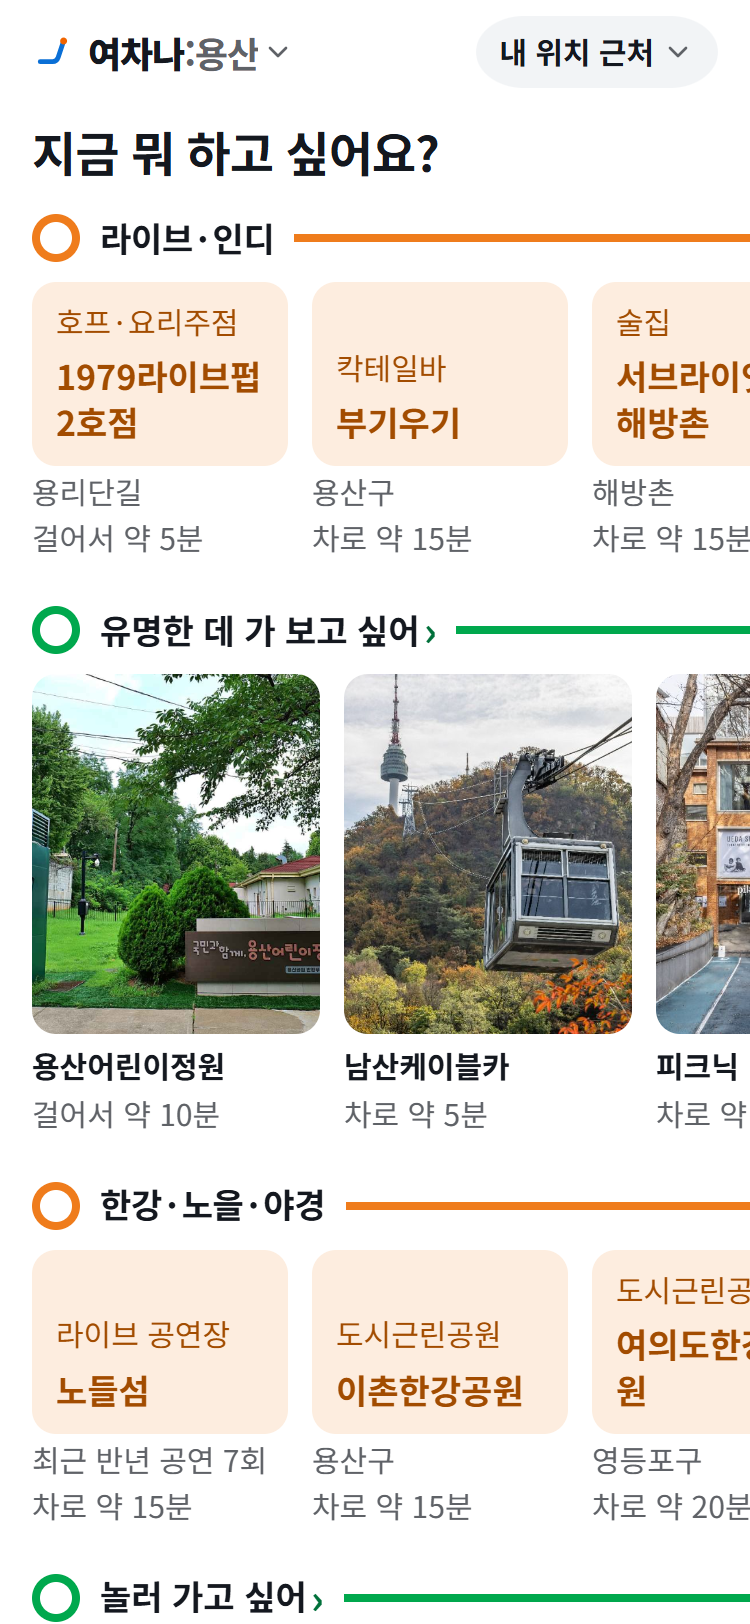
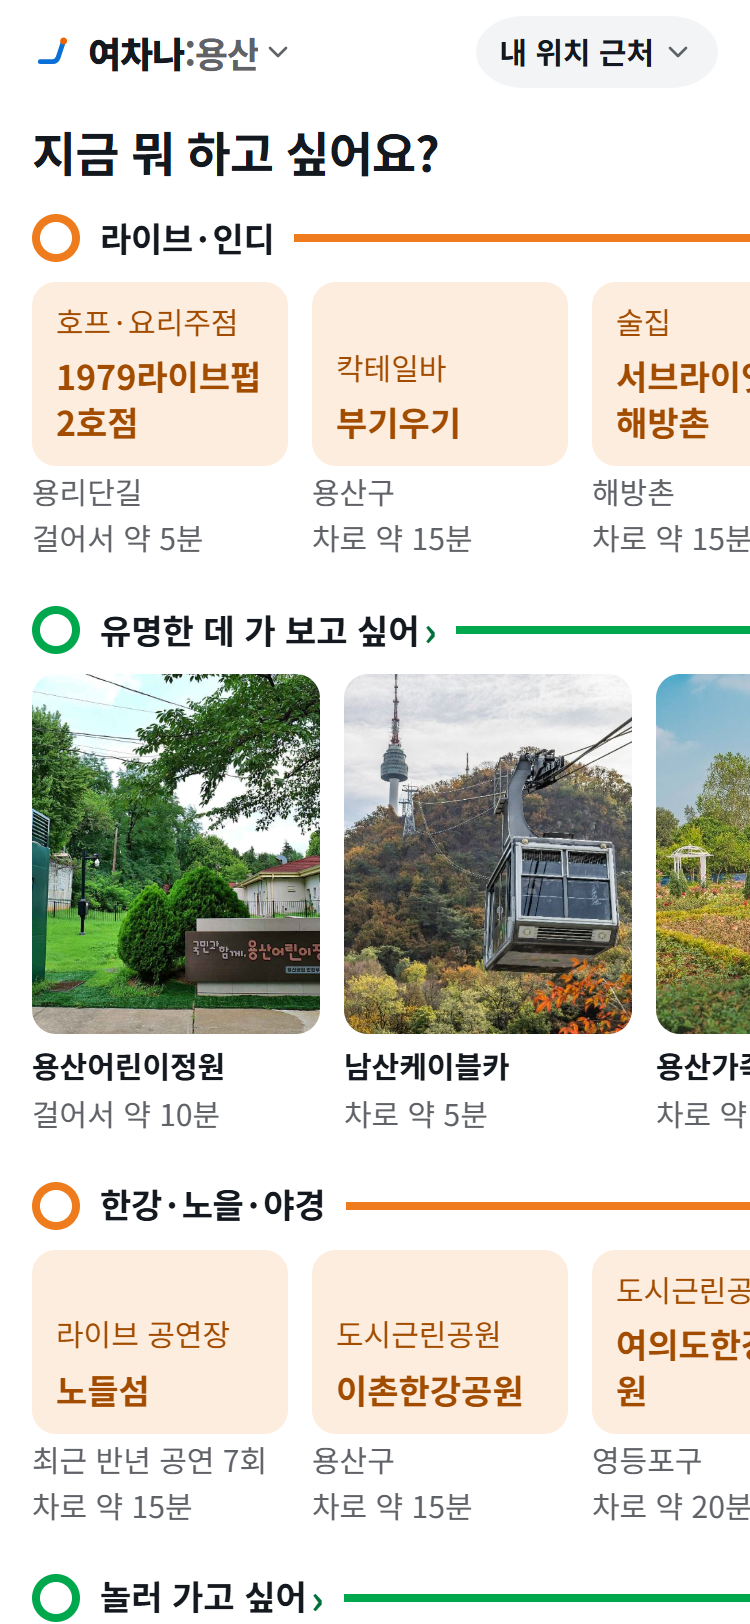
fix(seoul): 재검토 R1 줄임·r1·r2 - 궁과·갤러리 이름, 밤에 여는 곳은 관람형 아님, 빈 기분 줄도 머리 남김 (ADR-0117 Amendment 5)
- 관람형 이름 규칙: 「궁과」, 리뷰가 지목한 갤러리(학고재·송은·바라캇·화이트큐브·스페이스K·피크닉·푸투라); 궁은 9시부터
- 관람형 아님: 걷기·쉬기, 아쿠아리움, 아트센터·극장, ○○길·거리·공원·역
- 빈 기분 줄: 머리 + 「지금 닿는 곳에 없어요」(4개 언어)
- R1 완전 해소는 S1.5(서울 장소 영업 유형 분류), 배포 전부터 있던 결함으로 기록
- 테스트: 22시 용산·삼청 지금 여기서·기분 선반에 지목된 이름 0, 아쿠아리움 19시 남음; 리뷰 파일 포함

Changed region(s): [[0.8587, 0.4002, 1.0, 0.6773]]

diff --git a/apps/web/tests/browse.test.ts b/apps/web/tests/browse.test.ts
@@ -6,7 +6,7 @@ import { readFileSync } from 'node:fs';
 import { resolve } from 'node:path';
 import { FULL, HOME_ROWS, HOOD_MIN, MOOD_SHELVES, ORDER, PER_SHELF, browseCard, buildShelves, homeOrder, homeShelves, homeShown, imageUrl, inHood, linkUrl, RESIZE, todayTimes, type ShelfKey } from '../src/browse';
 import { normalizeSpots } from '../src/data';
-import { moodShelf } from '../src/home';
+import { moodShelf, nowSpot } from '../src/home';
 import { initialState, viewingShut } from '../src/state';
 import type { Spot } from '../src/pick';
 import { openNow, type Now } from '../src/culture';
@@ -229,14 +229,15 @@ describe('서울 홈의 선반 (ADR-0117)', () => {
     expect(seen.filter((sh) => size(sh) >= FULL).length).toBeGreaterThanOrEqual(4);
     for (const m of MOOD_SHELVES) expect(seen.map((sh) => sh.key)).toContain(m);
     for (const sh of list) {
-      expect(size(sh)).toBeGreaterThan(0);
+      // a mood's shelf may be empty (its heading stays, Amendment 5); the others are not there empty
+      if (!('spots' in sh)) expect(size(sh)).toBeGreaterThan(0);
       expect(size(sh)).toBeLessThanOrEqual(PER_SHELF);
     }
     // nothing shut now: the day's list and the curated places by their hours; a mood's places by 서울's usual viewing hours
     // (Amendment 4: no 박물관·미술관 at 22:00)
     for (const sh of list) if ('cards' in sh) for (const c of sh.cards) expect(browseCard(c.item, at(h), p)).not.toBeNull();
     for (const sh of list) if ('spots' in sh) for (const x of sh.spots) expect(viewingShut(x, h * 60)).toBe(false);
-    if (h === 22) for (const sh of list) if ('spots' in sh) for (const x of sh.spots) expect(x.name).not.toMatch(/박물관|미술관/);
+    if (h === 22) for (const sh of list) if ('spots' in sh) for (const x of sh.spots) expect(x.name).not.toMatch(/(박물관|미술관)$/);
     // each place once: by name, and a curated place that is a mood's place too (the same 카카오 id) once
     const names = list.flatMap((sh) => ('spots' in sh ? sh.spots.map((x) => x.name) : sh.cards.map((c) => c.item.title)));
     expect(new Set(names).size).toBe(names.length);
@@ -277,6 +278,15 @@ describe('서울 홈의 선반 (ADR-0117)', () => {
     expect(viewingShut(sp('경복궁'), 22 * 60)).toBe(true);
     expect(viewingShut(sp('궁중족발', 'food'), 22 * 60)).toBe(false);
     expect(viewingShut(sp('남산 야외식물원', 'walk'), 22 * 60)).toBe(false);
+    // Amendment 5: 「궁과」, the galleries the review named, a palace from 9:00; not 아쿠아리움, a stage, a 돌담길, 화랑대
+    expect(viewingShut(sp('창덕궁과 후원'), 22 * 60)).toBe(true);
+    expect(viewingShut(sp('창덕궁과 후원'), 9 * 60 + 30)).toBe(false);
+    expect(viewingShut(sp('리움미술관'), 9 * 60 + 30)).toBe(true);
+    for (const n of ['푸투라서울', '학고재', '바라캇 서울', '송은', '화이트큐브 서울', '스페이스K 서울', '피크닉']) expect(viewingShut(sp(n), 22 * 60)).toBe(true);
+    for (const n of ['코엑스 아쿠아리움', '롯데월드 아쿠아리움']) expect(viewingShut(sp(n), 19 * 60)).toBe(false);
+    for (const n of ['LG아트센터 서울', '창덕궁 소극장', '화랑대역']) expect(viewingShut(sp(n), 20 * 60)).toBe(false);
+    expect(viewingShut(sp('덕수궁 돌담길', 'walk'), 22 * 60)).toBe(false);
+    expect(viewingShut(sp('화랑대 철도공원', 'rest'), 22 * 60)).toBe(false);
   });
 
   it("the order table: 먹기 second at 밥때 (else after the hour's), 유명한 데 third, 놀러 fifth, 쉬기·걷기 last", () => {
@@ -290,16 +300,32 @@ describe('서울 홈의 선반 (ADR-0117)', () => {
     expect(homeOrder([], 12 * 60)).toEqual(['food', 'famous', 'new', 'rest', 'walk']);
   });
 
-  it('a place a shelf before took is passed over (id, name, 카카오 id); an empty mood shelf is not there; a short one goes to the back', () => {
+  // 재검토 R1·r2 (Amendment 5): the places the review named at 22:00 — on 「지금 여기서」 and the mood shelves, none
+  const NAMED = /푸투라서울|학고재|창덕궁과 후원|바라캇 서울|^송은$|화이트큐브 서울|스페이스K 서울|^피크닉$|국립중앙박물관$|리움미술관$/;
+  const 삼청 = { lat: 37.5847, lng: 126.982 };
+  it.each([
+    ['용산', HERE.용산, false],
+    ['용산', HERE.용산, true],
+    ['삼청', 삼청, false],
+    ['삼청', 삼청, true],
+  ] as const)('22:00 %s (case %#): none the review named, on 지금 여기서 or a mood shelf', (_, p, indoor) => {
+    const s = initialState({ dest: 'seoul', basis: 'gps', today: DAY, region: null, stay: null, saved: [], hintSeen: true, offline: false, clock: 22 * 60, indoor });
+    const origin = { key: 'gps', point: p, isPoint: true, from: '' };
+    const now = nowSpot(s, seoul, origin);
+    expect(now?.name ?? '').not.toMatch(NAMED);
+    for (const m of MOOD_SHELVES) for (const x of moodShelf(s, seoul, origin, m).slice(0, PER_SHELF * 2)) expect(x.name).not.toMatch(NAMED);
+  });
+
+  it('a place a shelf before took is passed over (id, name, 카카오 id); an empty mood shelf keeps its place; a short one goes to the back', () => {
     const sp = (id: string, name: string, kakao: string | null = null) => ({ id, name, kakaoPlaceId: kakao }) as Spot;
     const cards = Array.from({ length: 6 }, (_, i) => ({ item: place({ id: `kk-${i}`, g: 'G2', word: '전통시장', title: `시장${i}`, link: `https://place.map.kakao.com/${100 + i}` }), why: '', trip: null }));
     const out = homeShelves([{ key: 'g2', cards }], { food: [sp('a', '시장0'), sp('b', '딴집', '101'), sp('c', '국밥'), sp('e', '냉면')], famous: [sp('c', '국밥'), sp('d', '궁')], rest: [sp('a', '시장0')] }, 15 * 60, SUNSET);
-    // 15:00: g2, 유명한 데, 먹기 (after the hour's), 쉬기 empty
-    expect(out.map((sh) => sh.key)).toEqual(['g2', 'famous', 'food']);
-    expect(out.slice(1).map((sh) => ('spots' in sh ? sh.spots.map((x) => x.id) : []))).toEqual([['c', 'd'], ['e']]);
+    // 15:00: g2, 유명한 데, 놀러, 먹기 (after the hour's), 쉬기·걷기 — the moods with no place in reach stay, empty
+    expect(out.map((sh) => sh.key)).toEqual(['g2', 'famous', 'new', 'food', 'rest', 'walk']);
+    expect(out.slice(1).map((sh) => ('spots' in sh ? sh.spots.map((x) => x.id) : []))).toEqual([['c', 'd'], [], ['e'], [], []]);
     // a full mood shelf before a short curated one
     const many = Array.from({ length: 7 }, (_, i) => sp(`f${i}`, `곳${i}`));
-    expect(homeShelves([{ key: 'g2', cards: cards.slice(0, 2) }], { famous: many }, 15 * 60, SUNSET).map((sh) => sh.key)).toEqual(['famous', 'g2']);
+    expect(homeShelves([{ key: 'g2', cards: cards.slice(0, 2) }], { famous: many }, 15 * 60, SUNSET).map((sh) => sh.key).slice(0, 2)).toEqual(['famous', 'g2']);
   });
 });
 

diff --git a/apps/web/src/state.ts b/apps/web/src/state.ts
@@ -449,19 +449,32 @@ export const OPEN_STEP = 30;
 export const openPhase = (s: State, clock: number | null): number | null =>
   clock === null || s.when !== 'now' || (s.dest !== 'jeju' && s.dest !== 'seoul') ? null : Math.floor(clock / OPEN_STEP);
 
-/** 서울 (ADR-0117 Amendment 4): no place has its hours, and 지금 갈 수 없는 곳은 추천하지 않는다 — a place one goes in to look
- * round (박물관·미술관·궁 …, by its name: the data has no kind) keeps the usual 10:00–18:00 and is left out from half an hour
- * before it closes. Both edges fall on OPEN_STEP, so the home is drawn again at them. */
-const VIEWING = /박물관|미술관|기념관|전시관|전시실|역사관|과학관|문학관|기록관|뮤지엄|갤러리|화랑|아트센터|아트스페이스|사랑채|종묘|퐁피두|리움|궁(?:$|[\s(])/;
+/** 서울 (ADR-0117 Amendment 4·5): no place has its hours, and 지금 갈 수 없는 곳은 추천하지 않는다 — a place one goes in to look
+ * round (박물관·미술관·갤러리·궁 …, by its name: the data has no kind) keeps the usual hours, a palace 9:00–18:00 and the rest
+ * 10:00–18:00, and is left out from half an hour before it closes. A name can not catch them all: the kinds themselves are
+ * S1.5's (Amendment 5). Not one of them: a 걷기·쉬기 place (a 돌담길 is walked at night), 아쿠아리움, a stage (아트센터,
+ * 극장), a street, a park or a station. The edges fall on OPEN_STEP, so the home is drawn again at them. */
+const PALACE = /궁(?:과|$|[\s(])|종묘/;
+const VIEWING = /박물관|미술관|기념관|전시관|전시실|역사관|과학관|문학관|기록관|뮤지엄|갤러리|화랑(?!대)|아트스페이스|스페이스K|사랑채|퐁피두|리움|학고재|바라캇|화이트큐브|푸투라|^송은$|^피크닉$/;
+const NOT_VIEWING = /아쿠아리움|아트센터|극장|길$|거리$|공원|역$/;
 export const VIEW_HOURS: readonly [number, number] = [10 * 60, 18 * 60];
-export const viewingShut = (x: Spot, minute: number): boolean => x.mood !== 'food' && VIEWING.test(x.name) && (minute < VIEW_HOURS[0] || minute >= VIEW_HOURS[1] - 30);
-const viewCache = new WeakMap<Spot[], Spot[]>();
+const PALACE_OPEN = 9 * 60;
+export function viewingShut(x: Spot, minute: number): boolean {
+  if (x.mood === 'food' || x.mood === 'walk' || x.mood === 'rest' || NOT_VIEWING.test(x.name)) return false;
+  const open = PALACE.test(x.name) ? PALACE_OPEN : VIEWING.test(x.name) ? VIEW_HOURS[0] : null;
+  return open !== null && (minute < open || minute >= VIEW_HOURS[1] - 30);
+}
+const viewCache = new WeakMap<Spot[], { at: string; list: Spot[] }>();
 /** `spots` without what is shut now by viewingShut: 서울, 지금, the time read; as it is elsewhere and in the open hours. */
 export function openSpots(s: State, spots: Spot[]): Spot[] {
   const m = s.clock;
   if (s.dest !== 'seoul' || s.when !== 'now' || m === null || (m >= VIEW_HOURS[0] && m < VIEW_HOURS[1] - 30)) return spots;
-  let list = viewCache.get(spots);
-  if (!list) viewCache.set(spots, (list = spots.filter((x) => !viewingShut(x, m))));
+  // the same list before 9:00 and from 17:30; between 9 and 10 the palaces are open
+  const at = m >= PALACE_OPEN && m < VIEW_HOURS[0] ? 'palace' : 'shut';
+  const hit = viewCache.get(spots);
+  if (hit?.at === at) return hit.list;
+  const list = spots.filter((x) => !viewingShut(x, m));
+  viewCache.set(spots, { at, list });
   return list;
 }
 

diff --git a/apps/web/src/browse.ts b/apps/web/src/browse.ts
@@ -132,7 +132,8 @@ export type HomeShelf = Shelf | { key: MoodShelf; spots: Spot[] };
 const kakaoOf = (link: string) => /place\.map\.kakao\.com\/(\d+)/.exec(link)?.[1];
 /** The home's shelves: `shelves` (buildShelves) and each mood's places (home.ts moodShelf, nearest first) in homeOrder, each
  * place once — a place another shelf before it took (by id, 카카오 id or name: a curated place may be a mood's too) is passed
- * over — at most PER_SHELF a shelf, an empty one not there, then those under FULL at the back (ADR-0115 Amendment 3). */
+ * over — at most PER_SHELF a shelf, then those under FULL at the back (ADR-0115 Amendment 3). A mood's shelf is there with
+ * no place in it too (ADR-0117 Amendment 5): its heading is the way to that mood. */
 export function homeShelves(all: readonly Shelf[], moods: Partial<Record<MoodShelf, readonly Spot[]>>, minute: number, sunset: number, here: Spot | null = null): HomeShelf[] {
   const rank = ORDER[bandOf(minute, sunset)];
   // 지금 여기서's place (`here`) is on the home already: not on a shelf again
@@ -154,7 +155,8 @@ export function homeShelves(all: readonly Shelf[], moods: Partial<Record<MoodShe
       spots.push(x);
       for (const k of [x.id, x.name, x.kakaoPlaceId]) if (k) taken.add(k);
     }
-    if (spots.length) out.push({ key: key as MoodShelf, spots });
+    // a mood's shelf stays with no place in it (its heading is the mood button, Amendment 5); the others only with cards
+    out.push({ key: key as MoodShelf, spots });
   }
   const size = (s: HomeShelf) => ('spots' in s ? s.spots : s.cards).length;
   return out.sort((a, b) => Number(size(a) < FULL) - Number(size(b) < FULL));

diff --git a/apps/web/src/browse-view.ts b/apps/web/src/browse-view.ts
@@ -32,6 +32,8 @@ export const BROWSE_COPY = {
   inHood: '지금 이 동네에서',
   /** 서울 홈 (ADR-0117 Amendment 3): the shelves past the first HOME_SHELVES */
   moreShelves: '선반 더 보기',
+  /** a mood's shelf with no place in reach now (Amendment 5): its heading still goes to the results */
+  noneNear: '지금 닿는 곳에 없어요',
   none: '지금 둘러볼 것이 없어요.',
   /** 오늘 시간 on the card sheet: 「오늘 11:00~18:00」 */
   today: (times: string) => `오늘 ${times}`,
@@ -162,6 +164,7 @@ export function homeShelvesView(doc: Document, shelves: readonly HomeRow[], labe
       row.append(...(sh as Shelf).cards.map((c) => cardLi(doc, c, later)));
     }
     sec.append(row);
+    if (!sh.cards.length) sec.append(el(doc, 'p', { class: 'note shelf-none' }, BROWSE_COPY.noneNear));
     if (!shown[i] && !allShelves) sec.hidden = true;
     box.append(sec);
   }

diff --git a/apps/web/src/browse.css b/apps/web/src/browse.css
@@ -115,6 +115,9 @@
 .shelves .btile .bk { overflow: hidden; white-space: nowrap; text-overflow: ellipsis; }
 .shelves .btile .bt { -webkit-line-clamp: 2; }
 .shelves-more { margin-top: 20px; }
+/* a mood's shelf with nothing in reach: the heading and one line (Amendment 5) */
+.shelf-row:empty { display: none; }
+.shelf-none { margin: 0; color: var(--muted); }
 /* the lines under a card close-set, so a photo shelf starts on the first screen at 375 (Amendment 3) */
 .shelves .bcard .meta { margin-top: 2px; line-height: 1.4; }
 .shelves .bcard .nm { margin-top: 6px; }

diff --git a/apps/web/tests/culture-app.test.ts b/apps/web/tests/culture-app.test.ts
@@ -111,7 +111,7 @@ describe.runIf(NATION)('서울 홈의 선반 (switch on)', () => {
     await wait();
     expect(shelves()).toBe(block);
     for (const r of shelfRows()) {
-      expect(r.querySelectorAll('.bcard').length).toBeGreaterThan(0);
+      if (!MOODS.includes(r.dataset.shelf!)) expect(r.querySelectorAll('.bcard').length).toBeGreaterThan(0);
       expect(r.querySelectorAll('.bcard').length).toBeLessThanOrEqual(12);
     }
     // the five moods' headings are their buttons, in the mood buttons' words

diff --git a/apps/web/src/i18n/ja.ts b/apps/web/src/i18n/ja.ts
@@ -255,6 +255,7 @@ export const JA: Lang = {
       fromKakao: '場所の情報：カカオマップ',
       inHood: '今この街で',
       moreShelves: 'ほかの列も見る',
+      noneNear: '今行ける範囲にはありません',
       none: 'いま見て回れるものがありません。',
       today: (times) => `今日 ${times}`,
       more: '詳しく（予約・案内）',

diff --git a/apps/web/src/i18n/zh-Hans.ts b/apps/web/src/i18n/zh-Hans.ts
@@ -250,6 +250,7 @@ export const ZH: Lang = {
       fromKakao: '地点信息：Kakao地图',
       inHood: '现在在这个街区',
       moreShelves: '查看更多',
+      noneNear: '现在附近没有可去的地方',
       none: '现在没有可逛的活动。',
       today: (times) => `今天 ${times}`,
       more: '详情（订票·介绍）',

diff --git a/apps/web/src/i18n/en.ts b/apps/web/src/i18n/en.ts
@@ -257,6 +257,7 @@ export const EN: Lang = {
       fromKakao: 'Place info: Kakao Map',
       inHood: 'In this neighbourhood now',
       moreShelves: 'More rows',
+      noneNear: 'Nothing within reach right now',
       none: 'Nothing to browse right now.',
       today: (times) => `Today ${times}`,
       more: 'Details (tickets · info)',

diff --git a/apps/web/review/browse/predeploy-review-shelves.md b/apps/web/review/browse/predeploy-review-shelves.md
@@ -1,0 +1,142 @@
+# 배포 전 독립 리뷰 — 서울 홈 선반 (61e7dd5a, f066f1b1)
+
+대상: `git diff 4cbb3c6b..f066f1b1`. 기준: `specs/seoul-home-shelves.md`, ADR-0117(Amendment 1~3). 리뷰어: Claude 독립 리뷰(소스 수정 없음).
+
+결론: **MAJOR 3, MINOR 4, NIT 5.** ADR-0117 성공 기준 「독립 리뷰 MAJOR 0」을 아직 못 채운다.
+
+## 확인한 것 (실행 결과)
+
+- `npx tsc --noEmit`: exit 0.
+- `npx vitest run`: 83 files / 1730 passed, 8 files skipped, exit 0.
+- `npx vitest run --mode nation`: 91 files / 1834 passed, 1 skipped, exit 0.
+- 진입 예산: `vite build --mode nation --outDir <scratch>`(저장소 dist는 건드리지 않음). `index.html`이 부르는 진입 JS+CSS gzip은 **60,397 B**(index JS 54,245 + CSS 6,152)로 70,000 B 안이다. 선반 코드는 문화 청크(culture-view 22.05 kB gzip)에 들어갔다.
+- 스크래치 탐침(vitest, 저장소 밖 파일): 11-04 목록으로 용산·노원·망원·역삼·경복궁·성수·잠실 × 10·14·19·22시의 `homeShelves` 결과를 찍었다. 아래 수치는 모두 이 탐침에서 나왔다.
+- Chrome(playwright-core)에서 「문서에 붙기 전 요소에 `scrollTo`」를 재현했다. 결과: `scrollLeft` 500 → 새 요소 0.
+
+## MAJOR
+
+### M1. 쉬기·걷기 머리(와 밥때 밖의 먹기)가 「선반 더 보기」 뒤로 숨는다. 기분 버튼을 대신할 입구가 첫 화면에서 사라진다
+- 위치: `src/browse.ts:128`(`out.push('rest', 'walk')`), `src/browse-view.ts:161`(`i >= HOME_SHELVES`), `src/render.ts:1399`(`moodList.hidden = !!shelves`).
+- 실패 시나리오: 서울 홈에서는 선반이 12~14줄이다(탐침 28가지 경우 모두). 순서표가 쉬기·걷기를 끝에 두므로 두 줄은 늘 9번째 이후로 밀려 `hidden`이 된다. 14시 용산의 앞 8줄은 hood, g4, famous, g5, new, g7, g1, today이고, food·rest·walk는 숨는다(스크린샷 `home-375-light-end.png`도 같다). 기분 버튼 목록 `ul.moods`도 숨겨져 있어서, 「푹 쉬고 싶어」·「좀 걷고 싶어」는 「선반 더 보기」를 누르기 전에는 홈 어디에도 없다. ADR-0117 Decision 3은 「선반 머리가 기분 버튼과 같은 일을 하므로 목록을 따로 두지 않는다」고 하는데, Amendment 3의 8줄 제한이 이 전제를 깼다. ADR-0117 6 판정의 「선반 머리 누름」도 숨은 두 머리 때문에 낮게 나온다.
+- 고칠 방향(하나를 고른다): (a) 기분 선반 다섯 줄은 8줄 제한에서 빼고 늘 그린다. 남는 자리만 즐길 거리·행사가 채운다. (b) 앞 8줄 안에 기분 머리 다섯을 반드시 넣고 즐길 거리 줄을 뒤로 민다. (c) 선반이 숨긴 기분만 작은 버튼 줄로 아무거나 위에 남긴다. 고른 뒤 ADR-0117 Amendment에 적고, 테스트에 「앞 8줄 안에 MOOD_SHELVES 다섯이 모두 있다」를 넣는다.
+
+### M2. 다시 그리면 선반의 가로 스크롤이 늘 처음으로 돌아간다. 5분 타이머와 사진 실패마다 일어난다
+- 위치: `src/render.ts:1393-1396`(새 블록이 문서에 붙기 전에 `scrollTo` → `old.remove()` → `els.lede.after(shelves)`), `src/app.ts:478·480`(5분마다 culture minute 갱신 → `homeSigOf` 변경), `src/app.ts:1480`(`#home img[data-id]` 오류 → `imgError` → `s.broken.length` 변경).
+- 실패 시나리오: 문서에 붙지 않은 요소에는 레이아웃 상자가 없어서 `scrollTo`가 무시된다(Chrome 재현: 500 → 0). 그래서 코드 주석의 「a shelf's sideways scroll is kept across a redraw」가 실제로는 동작하지 않는다. 다시 그리는 때는 둘이다. ① 홈에 머무는 동안 5분마다. ② 기분 카드 사진 하나가 실패할 때마다. 사진은 넘기면서 지연 로딩되므로, 줄을 오른쪽으로 넘기다 실패한 사진을 만나면 그 순간 줄이 처음으로 튄다. 같은 재생성 때문에 키보드 포커스(카드 위)도 사라진다. 카드 시트가 열린 사이에 다시 그려지면 닫을 때 포커스가 그 카드가 아니라 `#basis`로 간다(`render.ts:1847`). jsdom 테스트는 `scrollTo`가 원래 아무 일도 안 하므로 이 결함을 잡지 못한다.
+- 고칠 방향: 새 블록을 먼저 붙이고(`old.replaceWith(shelves)`) 그다음 `scrollLeft`를 옮긴다. 포커스된 카드가 있으면 같은 `data-pin`/`data-id`의 새 버튼으로 포커스를 옮긴다. 더 나은 방법은 분 단위 갱신에서 선반 목록(키·카드 id)이 같으면 블록을 다시 만들지 않는 것이다. 사진 실패는 그 카드만 빼도록 처리하는 것도 검토한다. e2e에 「줄을 넘기고 → culture 분 갱신 → scrollLeft 유지」를 추가한다.
+
+### M3. 기분 선반이 지금 닫힌 곳을 그대로 보여 준다. ADR-0117 성공 기준 「지금 닫힌 곳은 없다」와 「지금·여기 먼저」 원칙을 어긴다
+- 위치: `src/home.ts:27-31`(`moodShelf` → `pool(..., minuteNow(s))`), `src/state.ts:445`(`minuteNow`는 제주만 시각을 준다), `tests/browse.test.ts:231`(「a mood's places have none outside 제주」로 검사를 빼 둠).
+- 실패 시나리오: 서울 장소 2,748곳에는 영업시간 필드가 없다(필드: id·name·…·area, hours 없음). 그래서 기분 선반은 시각과 상관없이 같다. 탐침에서 용산 22시·23시의 「놀러 가고 싶어」는 아모레퍼시픽미술관, 대원뮤지엄, 용산역사박물관, 전쟁기념관, 국립중앙박물관(+어린이박물관)이고, 「유명한 데」는 국립중앙박물관, 리움미술관, 퐁피두센터 한화, 용산어린이정원 등이다. 14시 목록과 한 곳도 다르지 않다. 예전에는 기분을 누른 뒤 3곳에서만 드러나던 한계였는데, 이제는 홈 첫 화면에 기분마다 12곳씩 먼저 내민다. 즐길 거리 줄은 시간대별로 걸러지는데 바로 옆 줄은 문 닫은 박물관이라 대비도 크다. ADR 성공 기준은 테스트에서 즐길 거리 카드에만 확인됐다.
+- 고칠 방향(주인 결정 필요): (a) 해 진 뒤나 대략 18시 이후에는 기분 선반에서 실내 관람형(박물관·미술관·궁 등 `sub`/분류로 고름)을 빼거나 뒤로 보낸다. (b) 저녁 이후에는 new·famous 선반을 숨기거나 즐길 거리 줄로 바꾼다. (c) 최소한 ADR-0117 성공 기준 문구를 「즐길 거리·행사 선반에서」로 고치고, 이 한계를 ADR에 적는다. 어느 쪽이든 `browse.test.ts`의 22시 사례에 기분 선반 기대값을 넣는다.
+
+## MINOR
+
+### m1. 「지금 여기서」 카드의 곳이 즐길 거리 선반에 다시 나온다
+- 위치: `src/render.ts:1393`(`here`는 기분 선반에서만 뺌), `src/browse.ts:139`(`taken`에 `here`가 없음).
+- 시나리오: 탐침에서 망원 10시·14시의 「지금 여기서」는 망원시장이고, 같은 곳이 시장 갈래 선반(g2)에도 나온다. 스펙의 「한 곳은 홈 전체에서 한 번만」과 어긋난다.
+- 고칠 방향: `shelvesBlock`에 `here`(id·name·kakaoPlaceId)를 넘긴다. `homeShelves`가 `buildShelves` 카드에서도 그곳을 빼게 한다. 아니면 `taken`의 초기값으로 넣고 즐길 거리 카드도 거른다.
+
+### m2. 결과에서 돌아올 때와 「선반 더 보기」를 누른 뒤 포커스가 사라진다
+- 위치: `src/render.ts:1866-1868`(`focusView('home')`이 숨은 `els.moods`로 감), `src/browse-view.ts:129`(`more.remove()`가 포커스된 버튼을 지움).
+- 시나리오: 선반 머리나 카드를 눌러 결과로 갔다가 「뒤로」를 누르면, 포커스 대상이 `hidden` 목록 안의 기분 버튼이라 `focus()`가 무시되고 포커스가 body에 남는다. 「선반 더 보기」를 키보드로 누르면 버튼이 없어지면서 포커스도 body로 간다. 스크린리더 사용자는 위치를 잃는다.
+- 고칠 방향: 홈 포커스 대상에 「마지막으로 누른 선반 버튼(`data-mood`+`data-pin`)」을 쓰고, 없으면 `#shelves .shelf-go`로 간다. 「선반 더 보기」 뒤에는 처음 펼친 선반의 머리(h2 또는 버튼)에 `tabindex=-1` 포커스를 준다.
+
+### m3. 첫 그리기에서 기분 타일이 먼저 그려졌다가 선반으로 바뀔 수 있다. 자리가 밀리고 사진 요청이 낭비된다 (브라우저 계측은 안 함)
+- 위치: `src/render.ts:1393-1407`(청크가 없으면 `shelves` null → `examples()`가 기분 사진 10장을 그림), `src/app.ts:487-491`(청크는 기준점이 생긴 뒤에야 불림).
+- 시나리오: 청크(`loadCulture`)가 장소 목록보다 늦게 오면, 2열 사진 타일(약 300px)이 보였다가 수천 px 높이의 선반으로 바뀐다. 아래 「아무거나」·노을·장이 밀려 레이아웃 이동이 생기고, 버려질 기분 사진 요청이 나간다. Amendment 1은 「청크가 안 오면 예전 기분 버튼」을 허용했지만, 「왔다가 바뀌는」 순간은 다루지 않았다.
+- 고칠 방향: 서울·지금·기준점 조건이면 청크 요청을 장소 목록 요청과 같이 시작한다(지금은 기준점이 생긴 뒤). 청크를 기다리는 짧은 시간에는 `examples()` 사진을 미룬다. 375에서 첫 방문·재방문 CLS를 한 번 잰다.
+
+### m4. 선반 계산과 DOM 생성이 첫 데이터 그리기의 한 작업 안에 들어간다 (TBT, 계측 안 함)
+- 위치: `src/render.ts:1393`(staged 경로 밖에서 동기 실행).
+- 시나리오: 탐침(데스크톱 Node)에서 `moodShelf`×5는 4~9ms, `buildShelves`+`homeShelves`는 4~10ms였고, 여기에 카드 약 160개의 DOM 생성이 더해진다. 휴대폰에서는 몇 배가 되어 첫 그리기의 긴 작업에 더해진다. 최근 TBT는 216ms로 이미 나빠짐 표시가 있다. `opts.stageHome`이 나눠 둔 단계(기분 예시 두 줄씩)와 달리 한 번에 실행된다.
+- 고칠 방향: 첫 그리기에서는 앞 2~3줄만 만들고 나머지 줄은 `afterPaint` 단계로 미룬다. 숨은 9번째 이후 줄은 「선반 더 보기」 때 만든다. 배포 뒤 라이트하우스 1회로 TBT를 확인한다.
+
+## NIT
+
+- n1. `src/browse.ts:144-157`: 줄마다 장소를 가져가는 일이 정렬(6장 미만을 뒤로) 전에 순서표 순서로 일어난다. 그래서 뒤로 밀린 짧은 줄이 화면에서는 앞에 있는 줄의 곳을 먼저 가져갔을 수 있다. 영향은 작다.
+- n2. `src/state.ts:632·658`: 요청이 실패하면(noOrigin/loadError) `pin`이 상태에 남는다. 다음 기분 누름에서 지워지니 실제 누수는 없지만, 같은 결과 화면에서 날짜를 바꾸고 다시 시도하면 고정 카드가 다시 적용된다. 결과 GPS를 다시 잡아 기준점이 바뀌고 그 풀이 비면 `[pinned].slice(0, 1)`만 남아 닿는 거리 밖 한 장이 나올 수 있다. `noOrigin`·`loadError`·`route HOME`에서도 `pin: null`로 하고, 고정 카드도 `pool`에 들어 있을 때만 쓰도록 바꾸면 안전하다.
+- n3. `src/browse-view.ts:123`: `homeWatch`는 다음 선반을 그릴 때만 끊긴다. 날짜 보기로 바뀌어 선반이 사라지면 관찰자가 남는다(떨어진 노드만 관찰하므로 해는 작다).
+- n4. `src/culture-view.ts:155-161`: 출처 줄이 숨은 9번째 이후 줄의 항목까지 셈한다. 펼치기 전에 보이지 않는 KOPIS 공연 때문에 KOPIS 줄이 나올 수 있다.
+- n5. `scripts/analytics-report.mjs:52`: 판정 날짜가 「배포일 + 14일」로만 적혀 있다. 배포한 날 실제 날짜(예: 2026-11-19 → 새 날짜)를 ADR-0117 6과 보고서에 박아 두지 않으면 판정을 놓치기 쉽다. 메모리의 「판정 11-19」(ADR-0114)도 거둬졌으니 함께 고친다.
+
+## 문제 없음으로 본 것
+
+- 적용 조건: `NATION && dest==='seoul' && !dated && origin && spots`. 제주·날짜 보기·청크 없음·다른 날 목록은 테스트로 확인했다. 홈 시그니처에 `!!culturePart()`가 더해졌지만, 청크는 서울에서만 불리므로 다른 여행지의 다시 그리기는 늘지 않는다.
+- 상태: `overlay: 'browse'`는 reducer에서 늘 null이다. 새 `browse-card` 항목은 depth 1이고, 다시 읽기 처리(`nav.ts:197`, depth>1일 때만 두 번 back)는 옛 쌓임과 새 쌓임 모두 맞다. 카드 시트는 홈 위에서 열리고, 뒤로 가기는 시트만 닫는다. 앱 inert와 opener 포커스 복귀는 공통 경로를 쓴다(M2의 다시 그리기 예외는 위에 적음).
+- pin: `resolved`에서 바로 null이 된다. 밀려난 카드는 seen에서 빠지고 고정 카드는 seen에 들어간다(Amendment 1대로). 세션 기록·저장 목록·뺀 곳에는 들어가지 않는다. 고정 카드도 `pickSpots`(뺀 곳 제외) 안에서만 찾는다.
+- 기록: 카드 누름은 `openBrowseCard` → `browse_card`(webdriver 제외), 링크는 기존 경로로 간다. `browse_open/done`은 서울 홈에서 나가지 않는다(`browsing`이 늘 null). 보고서 테스트는 통과했다.
+- 대비: 밝게 #a24c00·#00703a를 옅은 노선 면 위에 쓰면 약 5.2:1이다. 어둡게는 밝힌 글자색이라 4.5:1을 넘는다.
+- 사진: IntersectionObserver로 보일 때만 `src`를 넣고, 시작 화면 아래에서는 `data-later`로 둔다(`later.ts`가 덮개가 걷힐 때 넘김). 상자는 4:5와 5:7로 자리를 잡아 사진이 와도 밀리지 않는다.
+
+## 처리 (2026-11-05, ADR-0117 Amendment 4)
+
+- M1·M2·M3, m1, m2: 고침.
+- m3(첫 그리기에서 기분 타일 → 선반 바뀜): 미룸.
+- m4(선반 계산·DOM이 첫 그리기 한 작업 안, TBT): 미룸.
+- n1~n5: 미룸.
+
+## 재검토 (2026-11-05, 6d370c18 — `git diff f066f1b1..6d370c18`)
+
+결론: **MAJOR 1, MINOR 2.** M1·M2·m1·m2는 해소됐다. M3은 박물관·미술관 이름이 든 곳만 빠졌고, 이름에 그 말이 없는 관람형은 밤에도 남는다. 「지금 여기서」 카드도 그중 하나다.
+
+### 실행한 것
+- `npx tsc --noEmit` exit 0. `npx vitest run` 1733 passed / 105 skipped. `--mode nation` 1837 passed / 1 skipped.
+- 진입 예산: `vite build --mode nation --outDir <scratch>`. 진입 JS+CSS gzip **60,836 B**(직전 60,397 B, +439 B)로 70,000 B 안이다.
+- 실제 Chrome(playwright-core 1.61): 스크래치 빌드를 정적 서버로 띄웠다. 조건은 용산 GPS, `jeju.dest="seoul"`, 11-04 목록(`/api/culture` 가로챔), 가짜 시계 2026-11-04 14:00 KST, 375×812다.
+- 탐침(vitest, 저장소 밖 파일): 8개 지점(용산·노원·망원·역삼·경복궁·도봉·강서·삼청) × 9·10·14·17·19·22시 × 닿는 거리 3 × 실내만 켬·끔.
+
+### 해소 확인
+- **M1 해소**(기본 설정): 목록이 있을 때 보이는 9줄은 hood, g4, famous, g5, new, g7, food, rest, walk다(Chrome). drive30·drive60에서는 384가지 경우 모두 기분 다섯 머리가 다 있다. 예외는 아래 MINOR r1.
+- **M2 해소**(Chrome, 줄에 `scroll-snap-type: x mandatory`가 걸려 있음). 결과는 아래 표와 같다. 여섯 경우 모두 값이 카드 경계에 있고, 세로 위치(scrollY)도 그대로였다.
+
+  | 경우 | famous 줄 | hood 줄 |
+  |---|---|---|
+  | 5분 갱신 | 같은 요소, scrollLeft 468 → 468, 초점 카드 유지 | 같은 요소, 560 → 560, 초점 유지 |
+  | 사진 하나 404 | 새 묶음, 1248 → 1248, 초점 카드 유지(카드 12장 다시 채움) | 해당 없음 |
+  | 17:45(openPhase 다시 그리기, 줄 순서 바뀜) | 새 묶음, 1248 → 1248, 초점 유지 | 1260 → 1260 |
+
+- **m1 해소**: 「지금 여기서」 이름이 선반 카드 이름에 0건(Chrome). 탐침에서 망원 14시 g2에 있던 망원시장도 빠졌다.
+- **m2 해소**(Chrome): 먹기 카드 → 결과 → 뒤로 가기 뒤 초점이 `button.shelf-go[data-mood=food]`에 간다. 「선반 더 보기」를 키보드로 누르면 처음 펼친 줄의 h2(「한강·노을·야경」)로 간다.
+- openPhase를 서울에 켠 영향: `openPhase`를 쓰는 곳은 홈 시그니처와 `tick`의 30분 타이머뿐이다. 반시간마다 홈을 한 번 더 그리지만, M2 수정 덕에 스크롤·초점이 유지된다(위 17:45). 제주에서는 그대로다.
+- 이름 판정이 다른 곳에 미친 영향: `openSpots`는 `dest==='seoul' && when==='now'`에서 10:00 전과 17:30 뒤에만 걸러서, 제주·부산·자동 지역과 서울 낮 시간은 그대로다. 기분 결과(`resolveCards`)·「지금 여기서」(`nowSpot`)·아무거나(같은 `pickCards`)·고정 카드(pin)가 모두 같은 걸러진 목록을 쓰므로, 선반과 결과가 어긋나지 않는다. 캐시(`viewCache`)는 목록 배열만 키로 쓰지만, 열린 시간 밖이면 걸러내는 조건이 시각과 관계없이 같아서 결과가 맞다.
+
+### MAJOR
+
+#### R1 (M3 남음). 밤 22시에도 이름에 박물관·미술관이 없는 관람형이 남는다. 「지금 여기서」 첫 카드도 닫힌 곳이 된다
+- 위치: `src/state.ts:455`(`VIEWING` 이름 정규식), `src/home.ts:57`(`nowSpot`).
+- 탐침 22시(drive30, 실내만 끔):
+  - 「지금 여기서」: 삼청은 **푸투라서울**(갤러리)이다. 실내만을 켜면 경복궁은 **학고재**(갤러리), 노원은 노원수학문화관, 역삼은 신한아트홀이 나온다.
+  - 「유명한 데」: 용산은 용산어린이정원, 피크닉(전시), 국립서울현충원이다. 삼청은 **창덕궁과 후원**인데, 정규식 `궁(?:$|[\s(])`이 「궁과」를 못 잡았다. 망원·강서는 서울식물원·한국영상자료원, 노원·도봉은 국립산림과학원(홍릉시험림)·최순우 옛집·서울 정릉이다.
+  - 「놀러 가고 싶어」: 경복궁·삼청은 학고재, 바라캇 서울, 백인제가옥, 이상의집, 상촌재다. 역삼은 송은, 화이트큐브 서울이고, 강서는 스페이스K 서울, 노원·도봉은 헬로애니멀, 서울 연산군묘다.
+- 실패 시나리오: 22시에 삼청동에서 앱을 열면 맨 위 「지금 여기서 · 걸어서 약 N분 푸투라서울 [길찾기]」가 닫힌 갤러리로 안내한다. ADR-0117 성공 기준(「지금 닫힌 곳은 없다」)과 Amendment 4의 주장은 「22시 용산 기분 선반의 박물관·미술관 0곳」만 테스트했다.
+- 고칠 방향(주인 결정 필요):
+  - (a) 이름 대신 **목록 하나**로 판정한다. 서울 `new`·`famous` 가운데 `indoor===true`이고 food가 아닌 곳은 기본적으로 관람형으로 보고, 밤에 여는 곳(공연장·쇼핑·아쿠아리움 등)은 허용 목록으로 둔다. 자료가 2,748곳이라, 정규식에 걸린 300곳과 indoor 목록을 한 번 사람이 훑어 고정 파일로 두는 편이 정확하다.
+  - (b) 적어도 정규식에 갤러리형 고유명(학고재·송은·바라캇·화이트큐브·스페이스K·피크닉·푸투라)과 `궁과`, 그리고 `옛집|가옥|왕릉|묘$|정릉|식물원|현충원|시험림|어린이정원`을 넣는다.
+  - (c) 「지금 여기서」는 밤(해 진 뒤)에 실내 관람형 후보를 아예 쓰지 않는다.
+  - 어느 쪽이든 22시 테스트를 8개 지점 × 「지금 여기서」·기분 다섯 줄로 넓힌다.
+
+### MINOR
+
+#### r1 (M1 남음). 기분 줄이 비면 그 기분의 머리도 사라진다. 도보 거리, 그리고 실내만을 켠 도보 거리에서 자주 일어난다
+- 위치: `src/browse.ts`(`homeShelves`가 빈 기분 줄을 넣지 않음), `homeShown`.
+- 탐침: 닿는 거리 「걸어서」 + 실내만에서 64가지 중 48가지가 「좀 걷고 싶어」 머리를 잃었다(용산 10·14·19·22시, 목록 있음·없음 모두). 「걸어서」 + 실내만 끔에서는 64가지 중 5가지가 「푹 쉬고 싶어」 머리를 잃었다. 용산 쉬기 후보 3곳(용산어린이정원·이촌한강공원·노들섬)을 앞 줄들이 모두 가져갔기 때문이다. drive30·drive60에서는 0건이다.
+- 시나리오: 비 오는 날 「실내만」을 켜고 걸어서로 좁힌 사람에게는 서울 홈에 「좀 걷고 싶어」 입구가 없다. 기분 버튼 목록도 숨겨져 있다. 예전에는 버튼이 있었고, 결과가 비어도 빈 안내(범위 넓히기)를 볼 수 있었다.
+- 고칠 방향: 기분 다섯 줄은 카드가 0장이어도 머리만 있는 줄로 둔다(누르면 지금처럼 결과). 아니면 「한 곳 한 번」 규칙에서 기분 줄이 앞 줄에 다 빼앗기면 최소 1장은 남긴다.
+
+#### r2. 이름 판정이 밤에 열린 곳을 뺀다. 공연장은 바로 공연 시간에 빠진다
+- 위치: `src/state.ts:455`.
+- 정규식에 걸린 300곳 가운데 밤에도 열거나 그때가 제 시간인 곳:
+  - 아트센터형 공연장: LG아트센터 서울, 충무아트센터, 두산아트센터, 강동아트센터, 한전아트센터 공연장, 광림아트센터 2곳, 링크아트센터드림, 나루아트센터, 북서울꿈의숲아트센터, 창덕궁 소극장.
+  - 아쿠아리움: 코엑스 아쿠아리움(20시까지), 롯데월드 아쿠아리움(22시까지).
+  - 언제나 열린 길·공원·터: 덕수궁 돌담길(walk, 밤 산책 명소), 종묘광장공원, 화랑대 철도공원(rest), 평창동 미술관 거리, 화랑대역.
+- 10시 전 규칙은 9시에 여는 궁(경복궁 등)도 9~10시에 뺀다.
+- 고칠 방향: R1의 허용 목록과 함께 처리한다. 최소한 `mood==='walk'|'rest'`는 판정에서 제외하고, `아트센터`는 정규식에서 뺀다.
+
+### 남은 것(이번에 다시 세지 않음)
+- 처리 절대로 m3(첫 그리기 타일 → 선반)·m4(첫 그리기 한 작업)·n1~n5는 미뤄 둔 채다. 이번 수정의 `shelvesBlock` 서명 계산(JSON.stringify)은 그리기마다 한 번 더 돈다. 크기가 작아 m4를 키우지는 않는다고 본다(계측 안 함).
+
+### 재검토 처리 (ADR-0117 Amendment 5)
+- R1: 이름 규칙을 넓혀 줄임(궁과·갤러리 고유명). 완전 해소는 S1.5(서울 장소 영업 유형 분류)로 넘김. 배포 전부터 있던 결함으로 기록.
+- r1: 고침(빈 기분 줄은 머리 + 「지금 닿는 곳에 없어요」).
+- r2: 고침(걷기·쉬기·아쿠아리움·아트센터·극장·길·공원·역 제외, 궁 9시).

diff --git a/docs/adr/0117-seoul-home-shelves.md b/docs/adr/0117-seoul-home-shelves.md
@@ -83,3 +83,13 @@ ADR-0088과 다른 점 (서울 홈 선반 안에서만):
 - **다시 그리기**(M2): 보여 줄 선반·카드·줄 글자가 같으면 묶음을 다시 만들지 않는다(같은 요소를 그대로 둠). 바뀌었으면 새 묶음을 문서에 붙인 뒤 같은 key 줄의 가로 스크롤을 되돌리고, 초점이 있던 카드에 다시 초점을 준다. Chrome(Playwright)에서 확인: 5분 갱신 뒤 560→560(같은 요소), 사진 실패로 새로 그린 뒤 560→560, 초점 유지. 500을 넣으면 줄의 스냅이 먼저 560으로 맞춘다.
 - **지금 닫힌 곳**(M3): 서울 장소 자료에는 영업시간과 종류 필드가 없다(종류는 mood·sub·indoor뿐). 그래서 이름으로 관람형(박물관·미술관·기념관·전시관·역사관·과학관·문학관·갤러리·화랑·아트센터·궁·종묘 등)을 골라 보통 시간 10:00–18:00으로 보고, 마감 30분 전(17:30)부터와 10시 전에는 뺀다(`state.ts viewingShut`·`openSpots`). 서울·지금에서만 쓰고, 기분 선반·「지금 여기서」·아무거나·기분 결과 화면에 같이 쓴다. 30분 경계에서 홈을 다시 그리도록 `openPhase`를 서울에도 켰다. 22시 용산 기분 선반에 박물관·미술관은 0곳이다(테스트).
 - MINOR: 「지금 여기서」의 곳은 즐길 거리 선반에서도 뺀다. 결과에서 돌아오면 그 기분의 선반 머리에, 「선반 더 보기」 뒤에는 처음 펼친 선반 머리에 초점이 간다.
+
+## Amendment 5 (2026-11-05) — 재검토 R1·r1·r2 (주인 위임)
+
+- **R1은 배포 전부터 있던 결함이다.** 운영 중인 서울 기분 결과에는 영업시간 규칙이 아예 없다. Amendment 4의 이름 규칙으로 줄였지만, 이름만으로는 모든 관람형을 막을 수 없다(식물원·옛집·가옥·왕릉, 갤러리인 ○○아트센터 등이 남는다). 완전한 해소는 **S1.5**에서 한다: 서울 장소의 영업 유형을 분류한다(사전등록 기준 → 판정 → 블라인드 감사). S1은 이름 규칙으로 내보낸다.
+- 이번에 쉽게 잡히는 것은 고쳤다:
+  - 「궁」 뒤에 글자가 붙은 이름도 잡는다(「창덕궁과 후원」).
+  - 리뷰가 지목한 갤러리(학고재·송은·바라캇·화이트큐브·스페이스K·피크닉·푸투라)와 아트스페이스를 넣었다.
+- 관람형에서 빼는 것(r2): 걷기·쉬기 장소(밤 돌담길), 아쿠아리움, 무대(아트센터·극장), ○○길·거리·공원·역. 궁·종묘는 9시부터 연다.
+- **빈 기분 줄(r1)**: 카드가 0장이어도 기분 줄은 남는다. 머리(누르면 결과)와 「지금 닿는 곳에 없어요」 한 줄을 보인다(4개 언어).
+- 테스트: 22시 용산·삼청(실내만 켬·끔)의 「지금 여기서」와 기분 선반에 리뷰가 지목한 이름이 0곳이다. 아쿠아리움은 19시에도 남는다.
